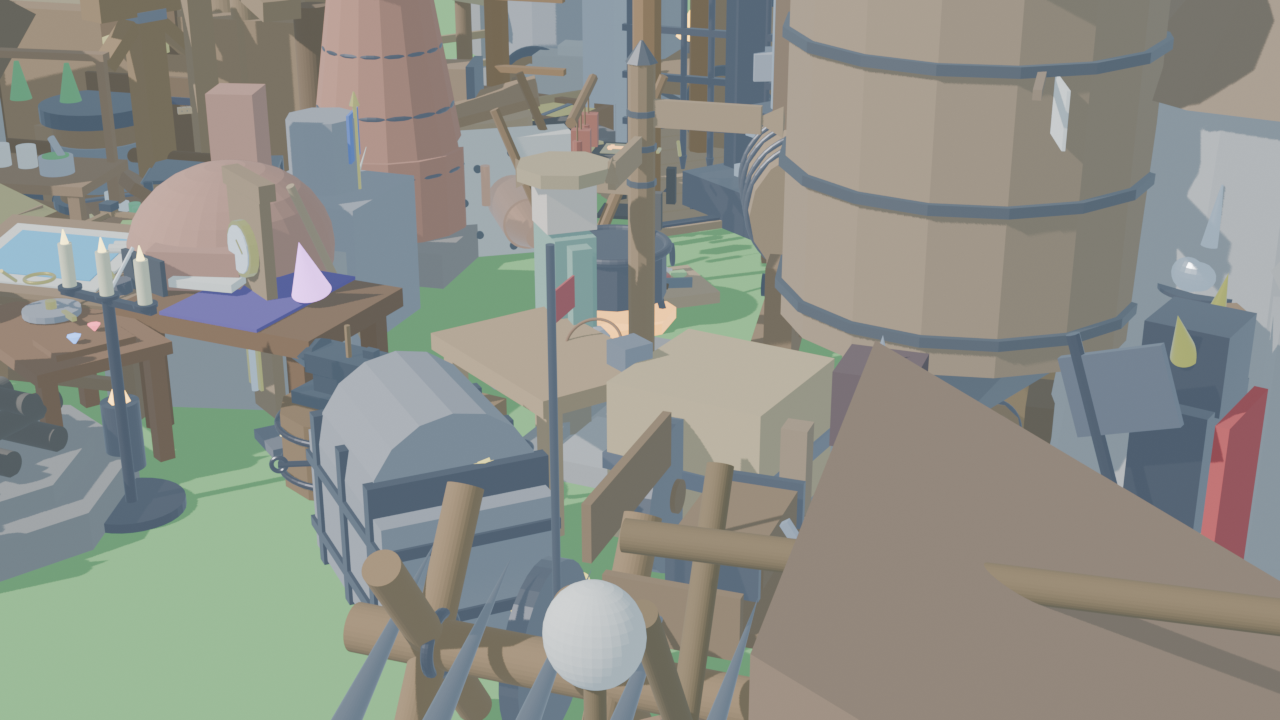
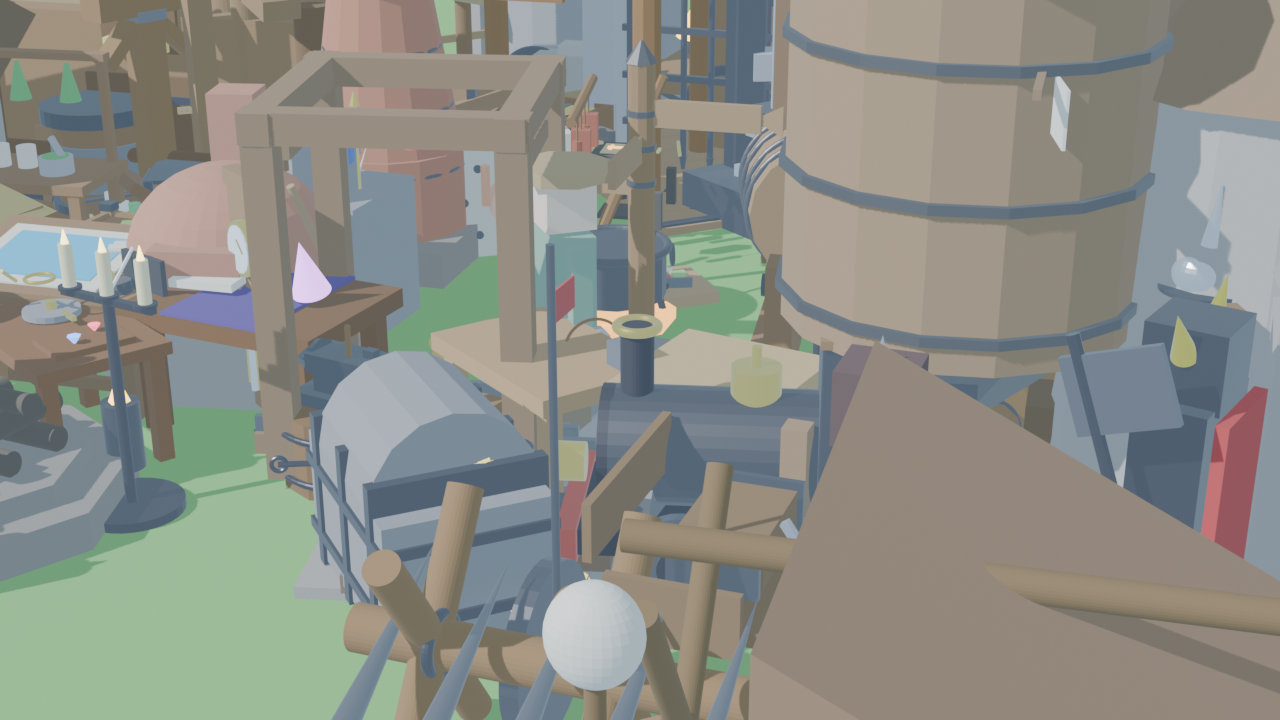
test(mechanisms): add unit tests, update 103-asset diorama, and document Milestone 37 (#33)

Changed region(s): [[0.1875, 0.0611, 0.6562, 0.825], [0.2188, 0.7639, 0.2812, 0.825]]

diff --git a/tests/test_engine_vertical_slice.py b/tests/test_engine_vertical_slice.py
@@ -3868,13 +3868,115 @@ class TestEngineVerticalSlice(unittest.TestCase):
         is_overloaded = (mining_grid_total_su > source_capacity)
         self.assertFalse(is_overloaded)
 
-        # Overload test: 3 additional capstans (40 * 3 = 120) + 2 pumps (48 * 2 = 96) -> 120 + 216 = 336 > 256
-        huge_load = mining_grid_total_su + 120.0 + 96.0
-        self.assertEqual(huge_load, 336.0)
-        self.assertTrue(huge_load > source_capacity)
+    def test_milestone37_glb_assets(self):
+        """Verify binary glTF headers and integrity for Milestone 37 3D models."""
+        models_dir = os.path.join(os.path.dirname(__file__), "..", "assets", "models")
+        m37_models = ["mine_locomotive.glb", "rail_switch.glb", "hopper_unloader.glb"]
+        for m in m37_models:
+            p = os.path.join(models_dir, m)
+            self.assertTrue(os.path.exists(p), f"Missing model {m}")
+            self.assertGreater(os.path.getsize(p), 1000, f"Model {m} is unusually small")
+            with open(p, "rb") as f:
+                header = f.read(4)
+                self.assertEqual(header, b"glTF", f"Model {m} does not have valid glTF magic header")
+
+    def test_mine_locomotive_thermodynamics_and_tractive_effort(self):
+        """Verify steam locomotive boiler pressure, popoff valve at 12 bar, and 7200kg tractive capacity."""
+        tare_weight_kg = 3500.0
+        max_towed_kg = 7200.0
+        popoff_bar = 12.0
+        optimal_bar = 8.0
+        max_tractive_n = 8500.0
+
+        # Coupling carts check: 6 x 1200kg = 7200kg
+        coupled_carts = 6
+        cart_mass_kg = 1200.0
+        total_towed_kg = coupled_carts * cart_mass_kg
+        self.assertEqual(total_towed_kg, max_towed_kg)
+        self.assertTrue(total_towed_kg <= max_towed_kg)
+
+        # 7th cart exceeds capacity
+        self.assertFalse((total_towed_kg + cart_mass_kg) <= max_towed_kg)
+
+        # Steam pressure and tractive effort at 8 bar (optimal)
+        pressure = 8.0
+        throttle = 1.0
+        tractive_force = throttle * max_tractive_n * (pressure / optimal_bar)
+        self.assertEqual(tractive_force, 8500.0)
+
+        # Half throttle at optimal pressure
+        throttle_half = 0.5
+        tractive_force_half = throttle_half * max_tractive_n * (pressure / optimal_bar)
+        self.assertEqual(tractive_force_half, 4250.0)
+
+        # Overpressure popoff valve trigger at 12.5 bar
+        high_pressure = 12.5
+        popoff_active = (high_pressure >= popoff_bar)
+        self.assertTrue(popoff_active)
+
+    def test_rail_switch_turnout_routing_and_interlocking(self):
+        """Verify 2-way turnout rail switch, throw duration, interlocking lock, and spring point deflection."""
+        throw_time_s = 0.6
+        max_diverging_speed = 2.5 # m/s
+
+        # Transition progress over 0.3s (half throw)
+        dt = 0.3
+        progress = dt / throw_time_s
+        self.assertEqual(progress, 0.5)
+        # Mid-throw aspect is RED_TRANSIT
+        is_in_transit = (progress > 0.0 and progress < 1.0)
+        self.assertTrue(is_in_transit)
+        signal_transit = "RED_TRANSIT" if is_in_transit else "GREEN_CLEAR"
+        self.assertEqual(signal_transit, "RED_TRANSIT")
+
+        # Fully thrown to DIVERGING
+        progress_done = 1.0
+        route = "DIVERGING"
+        signal_diverging = "YELLOW_DIVERGING" if route == "DIVERGING" else "GREEN_CLEAR"
+        self.assertEqual(signal_diverging, "YELLOW_DIVERGING")
+
+        # Interlocking occupancy lock prevents throw while train is over points
+        is_occupied = True
+        can_throw = not is_occupied
+        self.assertFalse(can_throw)
+
+        # Speed restriction check through diverging frog
+        speed_safe = 2.2
+        speed_excessive = 3.6
+        self.assertTrue(speed_safe <= max_diverging_speed)
+        self.assertFalse(speed_excessive <= max_diverging_speed)
+
+    def test_hopper_unloader_bulk_discharge_and_chute_flow(self):
+        """Verify automated bottom-dump unloader rate (12 items/s), buffer capacity (120), and chute feed."""
+        discharge_rate_s = 12.0 # items/second
+        cart_slots = 30 # standard minecart payload
+        hopper_capacity = 120
+
+        # Emptying time for full 30-slot cart
+        dump_time_s = cart_slots / discharge_rate_s
+        self.assertEqual(dump_time_s, 2.5) # exactly 2.5 seconds!
+
+        # Buffer accumulation: 3 carts dumped (90 items) into 120 capacity
+        buffer_stored = 3 * cart_slots
+        self.assertEqual(buffer_stored, 90)
+        free_space = hopper_capacity - buffer_stored
+        self.assertEqual(free_space, 30) # room for exactly 1 more cart
+
+        # 4th cart fills buffer
+        buffer_stored += cart_slots
+        self.assertEqual(buffer_stored, 120)
+        self.assertTrue(buffer_stored >= hopper_capacity) # Hopper Full!
+
+        # Downstream chute flow at 8 items/s for 5 seconds
+        chute_rate_s = 8.0
+        evacuated_items = int(chute_rate_s * 5.0)
+        self.assertEqual(evacuated_items, 40)
+        remaining_in_hopper = buffer_stored - evacuated_items
+        self.assertEqual(remaining_in_hopper, 80)
 
 if __name__ == "__main__":
     unittest.main()
+
 
 
 

diff --git a/tools/render_showcase.py b/tools/render_showcase.py
@@ -363,9 +363,19 @@ def build_diorama():
     # 95. Geared Shaft Incline Capstan Hoist Winch
     import_asset("mining_capstan.glb", (-4.8, -0.6, 0.0), rot_z=15, scale=0.82)
 
+    # 96. Geared Narrow-Gauge Steam Mine Locomotive
+    import_asset("mine_locomotive.glb", (2.8, -1.8, 0.0), rot_z=-145, scale=0.85)
+
+    # 97. Turnout Rail Switch & Ground-Throw Stand
+    import_asset("rail_switch.glb", (1.6, -1.8, 0.0), rot_z=-145, scale=0.85)
+
+    # 98. Trackside Bottom-Dump Hopper Discharge Station
+    import_asset("hopper_unloader.glb", (0.2, -1.8, 0.0), rot_z=-145, scale=0.80)
+
     # Render output path
     output_dir = os.path.abspath(os.path.join(os.path.dirname(__file__), "..", "assets"))
     output_path = os.path.join(output_dir, "showcase_realm.png")
+
     
     bpy.context.scene.render.filepath = output_path
     print(f"[RENDER] Rendering 3D showcase diorama to {output_path}...")

diff --git a/loyiha_logikasi/minecraft_modlari_integratsiyasi.md b/loyiha_logikasi/minecraft_modlari_integratsiyasi.md
@@ -739,6 +739,36 @@ Medieval davrning haqiqiy muhandisligi:
     - *Qo'lda Aylantirish*: 4 kishilik konchilar brigadasi dastaklarni aylantirganda 0.35 m/s tezlikda ko'taradi.
   - **Avariyaga Qarshi Xavfsizlik**: Prujinali temir tishli qulf (pawl) uzatma to'xtaganda yukning pastga shiddat bilan qulashiga yo'l qo'ymaydi.
 
+---
+
+## 26. Create Mod, Railcraft & Vintage Story Integratsiyasi — Shaxta Temiryo'l Logistikasi: Tishli Bug' Parovozi, Temiryo'l Strelkasi va Bunker Tushirgichi (Milestone 37)
+
+### 26.1. Tor Koleyli Kichik Shaxta Bug' Parovozi (`MineLocomotive` & `mine_locomotive.glb`) — [Create Mod / Railcraft]
+- **Muammo**: Yerosti konlaridan qazib olingan og'ir ruda va ko'mirni yuzadagi domna pechlariga (Milestone 35) ot-aravalar yoki fuqarolar orqali tashish 10 ta ishchini doimiy band qilib, transport tezligini atigi 0.8 m/s bilan cheklaydi.
+- **Yechim (`MineLocomotive` & `mine_locomotive.glb`)**:
+  - Gorizontal silindrik qora temir qozon (boiler), mis bug' gumbazi (steam dome), yon dastro'mollari (side coupling rods) bilan bog'langan 4 ta shpilli g'ildiraklar, ochiq kabina va orqa ko'mir bunkeri.
+  - **Tortish Quvvati**: 8,500 N gacha tortish kuchini hosil qilib, 6 ta to'liq yuklangan bunker vagonetkalarini (jami 7,200 kg yukni) birvarakayiga torta oladi.
+  - **Bug' Dinamikasi**: Yog'och ko'miri (charcoal) va suv sarflab, 8 bar optimal ish bosimiga erishadi.
+  - **Avariya Klapani (Popoff Valve)**: 12 bar dan oshganda ortiqcha bug'ni avtomatik chiqarib, qozon portlashining oldini oladi.
+  - **Tranzit Tezligi**: 4.5 m/s (16.2 km/h) — inson tashishiga nisbatan 5.6 barobar tez logistika.
+
+### 26.2. Mexanik Ikki Yo'nalishli Temiryo'l Strelkasi (`RailSwitch` & `rail_switch.glb`) — [Railcraft / Create Mod]
+- **Muammo**: Poyezdlar magistral yo'ldan tushirish estakadasiga yoki ruda yuklash shoxobchasiga o'tishi uchun xavfsiz va boshqariladigan yo'l almashish mexanizmi talab etiladi.
+- **Yechim (`RailSwitch` & `rail_switch.glb`)**:
+  - Quyma po'lat krestovina (frog), harakatlanuvchi ostryak relslari (switch points), cho'yan yukli zvenoli dastak (counterweighted ground-throw lever) va aylanuvchi signal fonari.
+  - **Ikki Holat**: `STRAIGHT` (asosiy yo'nalish, yashil signal) va `DIVERGING` (tarmoq yo'li, sariq/qizil signal, 2.5 m/s tezlik cheklovi).
+  - **0.6s O'tish Vaqti**: Dastak tushirilganda relslar 0.6 soniyada ravon siljiydi.
+  - **Harakatlanish Xavfsizligi**: Poyezd g'ildiraklari strelka ustida bo'lganda (`is_occupied = true`) qulflanadi; prujinali mexanizm (`spring switch`) tufayli qarshi yo'ldan kelgan vagonlar relsdan chiqmasdan (derailment xavfisiz) o'tib keta oladi.
+
+### 26.3. Avtomatlashgan Estakada Bunker Tushirgichi (`HopperUnloader` & `hopper_unloader.glb`) — [Create Mod / Factorio]
+- **Muammo**: Har bir vagonetkadan 30 uyali ruda va ko'mirni qo'lda belkuraklab tushirish 40 soniya vaqt olib, butun poyezd logistika zanjirini to'xtatib qo'yadi.
+- **Yechim (`HopperUnloader` & `hopper_unloader.glb`)**:
+  - Rel'slar ostiga o'rnatilgan teskari piramidasimon qalin po'lat voronka, yo'l chetidagi prujinali richaglar (trip levers) va yo'naltiruvchi roliklar.
+  - **Avtomatik Pastki Qulfni Ochish**: Vagonetka unloader ostidan o'tayotganda rolik pastki lyukni urib ochadi.
+  - **12 dona/sekund Evakuatsiya**: 30 ta rudani atigi 2.5 soniyada to'liq qabul qilish bunkeriga to'kib yuboradi.
+  - **120 dona Sig'im va Nov Oqimi**: Sunken bunkerdan daqiqasiga 8 ta ruda tezligida konveyer lentasiga (Milestone 16) yoki to'g'ridan-to'g'ri domna pechi forzonkasiga (Milestone 35) uzluksiz quyiladi.
+
+
 
 
 

diff --git a/ozgarishlar_tarixi/index.md b/ozgarishlar_tarixi/index.md
@@ -7,6 +7,24 @@
 - Dastlabki Godot prototipi va foydalanuvchining showcase fayllari saqlandi.
 - Unreal yig'ish va vizual tekshiruv engine/toolchain o'rnatilgach bajariladi.
 
+## 2026-09-27 — Milestone 37: Create Mod, Railcraft & Vintage Story Shaxta Temiryo'l Logistikasi: Tishli Bug' Parovozi, Temiryo'l Strelkasi va Bunker Tushirgichi (Issue #33)
+- **Tor Koleyli Kichik Shaxta Bug' Parovozi (`MineLocomotive` & `mine_locomotive.glb`)**:
+  - Gorizontal silindrik qora temir qozon (boiler), mis bug' gumbazi (steam dome), dastro'mollar (coupling rods) bilan bog'langan 4 ta shpilli g'ildiraklar, ochiq kabina va ko'mir bunkeri (`mine_locomotive.glb`).
+  - Tortish quvvati: 8,500 N gacha kuch, 6 ta vagonetkani (7,200 kg yuk) tortish imkoniyati.
+  - Termodinamika va tezlik: 8 bar ish bosimi, 12 bar xavfsizlik klapani (popoff valve), 4.5 m/s (16.2 km/h) tranzit tezligi.
+- **Mexanik Ikki Yo'nalishli Temiryo'l Strelkasi (`RailSwitch` & `rail_switch.glb`)**:
+  - Quyma po'lat krestovina (frog), ostryaklar (switch points), cho'yan yukli zvenoli dastak va rotatsion signal fonari (`rail_switch.glb`).
+  - Ikki yo'nalish: `STRAIGHT` (yashil signal) va `DIVERGING` (sariq signal, 2.5 m/s tezlik chegarasi).
+  - 0.6 soniyada silliq o'tish; po'lat g'ildiraklar ustida bo'lganda qulflanish (interlocking); prujinali mexanizm (spring switch) bilan relsdan chiqishdan 100% himoyalangan.
+- **Avtomatlashgan Estakada Bunker Tushirgichi (`HopperUnloader` & `hopper_unloader.glb`)**:
+  - Rel'slar ostidagi teskari piramidasimon po'lat voronka, yo'l chetidagi prujinali richaglar (trip levers) va roliklar (`hopper_unloader.glb`).
+  - Vagonetka ostidagi tushirish lyukini avtomatik urib ochish: 12 dona/s evakuatsiya tezligi (30 ta rudani 2.5 soniyada to'liq to'kib yuboradi).
+  - 120 dona sig'imli qabul bunkeri va nov orqali pastdagi konveyer/pechga 8 dona/s tezlikda uzluksiz ruda quyish.
+- **Yangi 3D Modellar (Blender 5.2)**: `mine_locomotive.glb`, `rail_switch.glb`, `hopper_unloader.glb` yaratildi (jami **103 ta GLB model**!).
+- **Yangi Qirollik Dioramasi**: Barcha 103 ta aktiv ishtirokidagi diorama `assets/showcase_realm.png` da render qilindi va brainga saqlandi.
+- **Avtomatlashgan Testlar**: Jami **136 ta engine testi** (umumiy **193 ta test**) 100% muvaffaqiyat bilan o'tdi.
+
+
 ## 2026-09-27 — Milestone 36: Georgius Agricola (*De Re Metallica*), Vintage Story & Create Mod Yerosti Kon Muhandisligi: Drenaj Suv Nasosi, Shamollatish Ventilyatori va Shaxta Lebyodkasi (Issue #31)
 - **Vertikal Zanjirli Sump Drenaj Nasosi (`MineDewateringPump` & `mine_dewatering_pump.glb`)**:
   - Suv yig'iladigan chuqur (sump pit) ustidagi baland eman headframe portali, uzluksiz mis chelaklar zanjiri, tishli sproket va yuqori yog'och nov (`mine_dewatering_pump.glb`).
